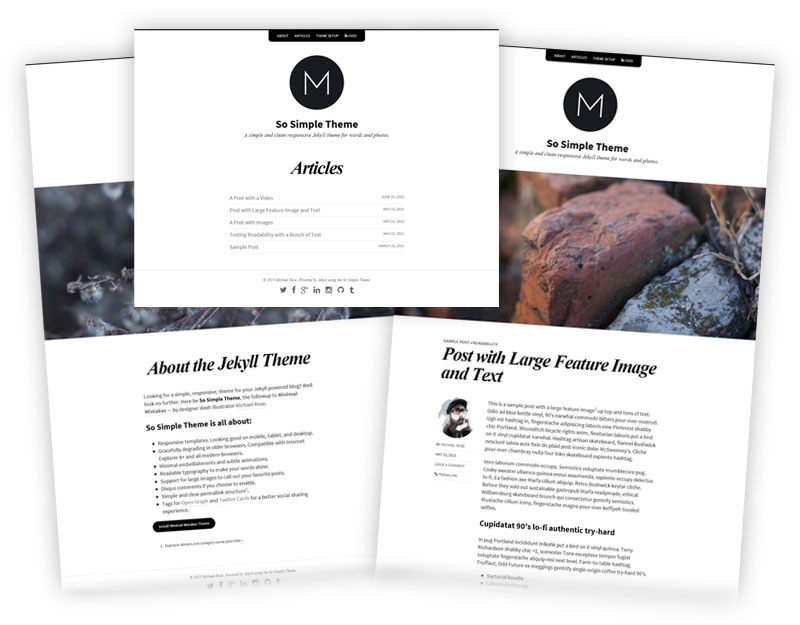
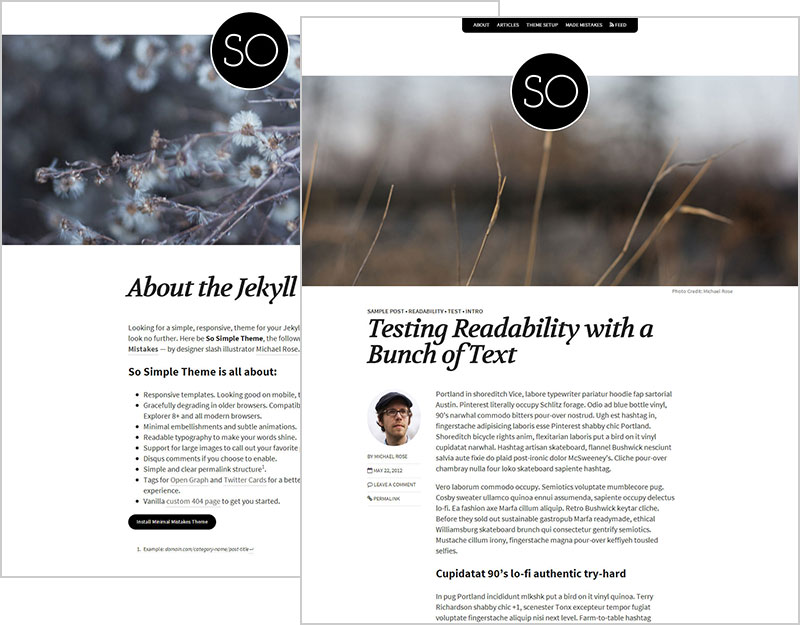
Update So Simple Theme's preview image

diff --git a/_posts/articles/2013-06-26-so-simple-jekyll-theme.md b/_posts/articles/2013-06-26-so-simple-jekyll-theme.md
@@ -4,6 +4,7 @@ title: "So Simple, a Jekyll Theme"
 headline: "So Simple Theme"
 subheadline: "Built for Jekyll"
 description: "A simple and clean responsive Jekyll theme for words and photos by designer Michael Rose."
+modified: 2013-08-05
 image: 
   feature: so-simple-theme-feature.jpg
   small: so-simple-theme-340x100.jpg
@@ -29,7 +30,7 @@ After having so much fun creating and releasing [my first open source Jekyll the
 
 <figure class="large">
 	<a href="http://mmistakes.github.io/so-simple-theme" title="Preview So Simple Theme"><img src="{{ site.url }}/images/so-simple-theme-preview.jpg" alt="Screenshot of So Simple Theme"></a>
-	<figcaption>Page, post, and archive templates in action.</figcaption>
+	<figcaption>Page and post templates in action.</figcaption>
 </figure>
 
 ## Getting started
